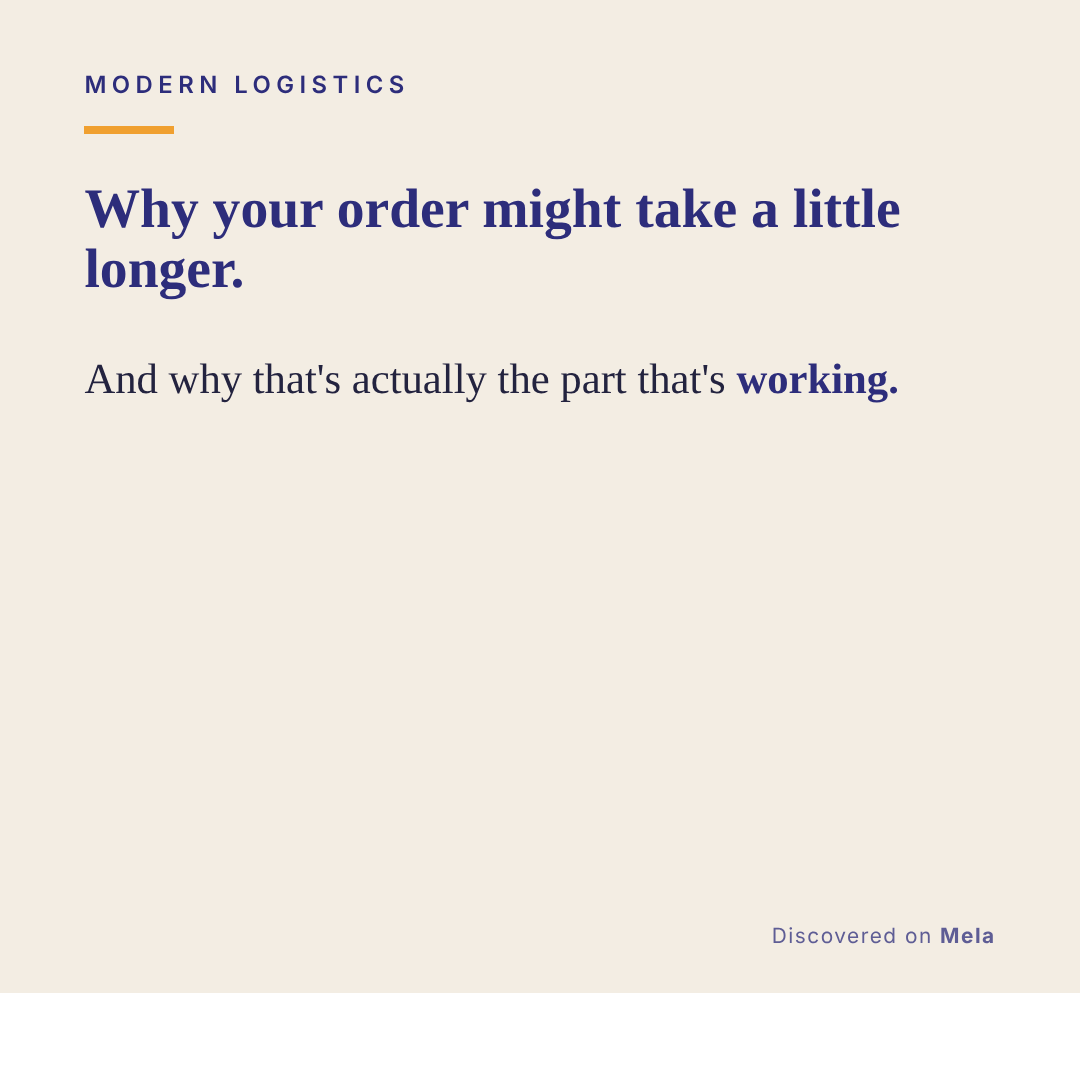
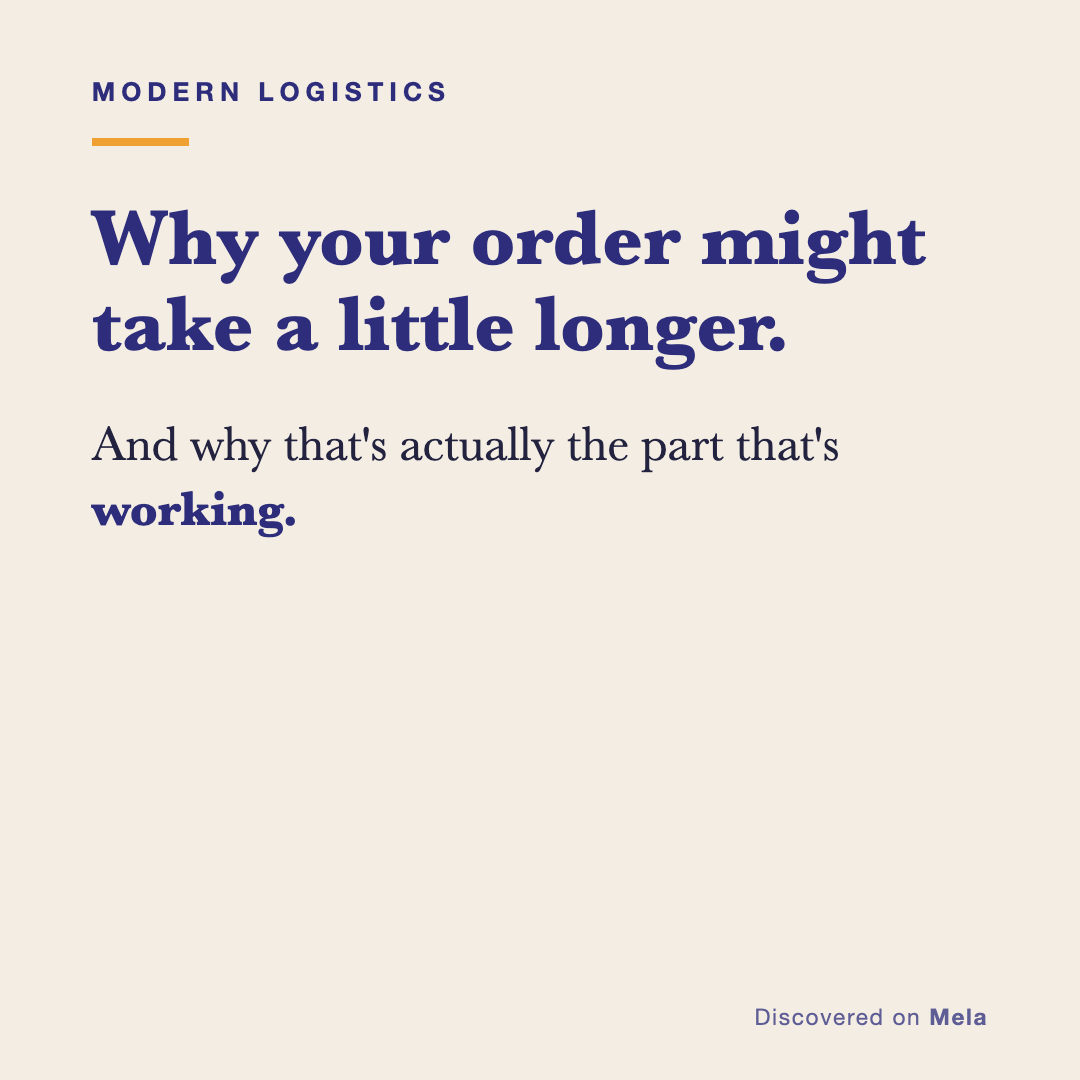
docs(social): watermark and QC week-3 renders, upload education slides
Downloads and diffs the 6 Kaunteya/Vilvah renders against source, composites
the "Discovered on Mela" watermark, and re-hosts them via Blotato; swaps the
image_url values in both campaign YAMLs. The Anti-Frizz Hair Serum render
invented a pump nozzle and was re-rendered; fine-print garble on the Vilvah
shampoo and serum labels is flagged for founder decision.

Re-renders the three education slides locally (the cloud PNGs had an ~87px
transparent strip at the bottom), commits their HTML sources, and fills the
three image_url fields.

diff --git a/social/log/_education/trust-small-batch-01/renders/slide2-teaching.html b/social/log/_education/trust-small-batch-01/renders/slide2-teaching.html
@@ -1,0 +1,50 @@
+<!doctype html>
+<html lang="en">
+<head>
+<meta charset="utf-8">
+<title>Mela — Teaching Card</title>
+<link rel="stylesheet" href="mela-kit.css">
+<style>
+  /* Teaching card: a middle slide for a cultural_education post. Explains
+     "how it's made" as a short numbered sequence. Never slide 1 (that's a
+     hook) and never a product. See visual-style-guide.md -> Education
+     Visual System -> Middle slides. */
+  .card { justify-content: flex-start; }
+  .headline {
+    font-size: 6.4vmin; line-height: 1.08; color: var(--ink);
+    margin: 0 0 5vmin; max-width: 92%;
+  }
+  .headline .accent { color: var(--navy); font-style: italic; }
+  .steps { display: flex; flex-direction: column; gap: 3.4vmin; margin-top: 0.5vmin; }
+  .step { display: flex; align-items: flex-start; gap: 3vmin; }
+  .num {
+    font-family: var(--sans); font-weight: 700; font-size: 2.9vmin;
+    color: var(--navy); background: var(--marigold);
+    width: 6.4vmin; height: 6.4vmin; min-width: 6.4vmin; border-radius: 50%;
+    display: flex; align-items: center; justify-content: center;
+    margin-top: 0.4vmin;
+  }
+  .step p { font-size: 4vmin; line-height: 1.32; color: var(--ink); margin: 0; }
+  .step p b { color: var(--navy); font-weight: 600; }
+  /* tighter sizing so 4 steps + watermark fit with the kit's real serif fonts */
+  .headline { font-size: 5.2vmin; margin-bottom: 3.4vmin; }
+  .steps { gap: 2.4vmin; }
+  .step p { font-size: 3.3vmin; line-height: 1.28; }
+  .num { width: 5.6vmin; height: 5.6vmin; min-width: 5.6vmin; font-size: 2.6vmin; }
+</style>
+</head>
+<body>
+  <div class="card">
+    <div class="kicker">Small batch, not mass produced</div>
+    <div class="rule"></div>
+    <h1 class="headline">What's actually happening <span class="accent">while you wait</span></h1>
+    <div class="steps">
+      <div class="step"><div class="num">1</div><p>Many pieces are <b>finished only after your order</b> comes in, not pulled off a warehouse shelf.</p></div>
+      <div class="step"><div class="num">2</div><p>Small production runs mean <b>a person checks each piece</b>, not a machine sampling every tenth one.</p></div>
+      <div class="step"><div class="num">3</div><p>That's also why <b>two pieces from the same run are never perfectly identical</b>.</p></div>
+      <div class="step"><div class="num">4</div><p>The wait buys you something mass production can't: <b>someone who actually finished it by hand</b>.</p></div>
+    </div>
+    <div class="watermark">Discovered on <b>Mela</b></div>
+  </div>
+</body>
+</html>

diff --git a/social/log/_education/trust-small-batch-01/renders/slide3-mythfact.html b/social/log/_education/trust-small-batch-01/renders/slide3-mythfact.html
@@ -1,0 +1,51 @@
+<!doctype html>
+<html lang="en">
+<head>
+<meta charset="utf-8">
+<title>Mela — Myth vs Fact</title>
+<link rel="stylesheet" href="mela-kit.css">
+<style>
+  /* Trust/service. Full-bleed split: muted MYTH over affirmative FACT.
+     High save/share format — the correction is the payoff. */
+  .card { padding: 0; }
+  .panel {
+    flex: 1;
+    padding: 7.5vmin 8.5vmin;
+    display: flex; flex-direction: column; justify-content: center;
+  }
+  .panel.myth { background: var(--cream-deep); }
+  .panel.fact { background: var(--navy); }
+  .tag {
+    font-family: var(--sans); font-weight: 700; letter-spacing: 0.4vmin;
+    font-size: 2.3vmin; text-transform: uppercase;
+    padding: 1vmin 2.6vmin; border-radius: 0.9vmin;
+    width: max-content; margin-bottom: 3.5vmin;
+  }
+  .myth .tag { background: #D9CDB8; color: var(--muted); }
+  .fact .tag { background: var(--marigold); color: var(--navy-deep); }
+  .statement { font-size: 5vmin; line-height: 1.2; margin: 0; }
+  .myth .statement { color: var(--muted); }
+  .fact .statement { color: var(--cream); }
+  .fact .statement .accent { color: var(--marigold); font-style: italic; }
+</style>
+</head>
+<body>
+  <div class="card">
+    <!-- DO NOT use "duties handled up front" as a blanket fact. Duties/customs vary
+         by brand and order value: SOME brands prepay (DDP), MANY do not. A customs
+         myth/fact must be brand-specific and verified, never a universal Mela promise.
+         Default below avoids the duties claim entirely. -->
+    <div class="panel myth">
+      <span class="tag">Myth</span>
+      <!-- EDIT: the misconception -->
+      <p class="statement">A slower ship date means something went wrong with your order.</p>
+    </div>
+    <div class="panel fact">
+      <span class="tag">Fact</span>
+      <!-- EDIT: the correction. Wrap a phrase in <span class="accent"> for the marigold pop. -->
+      <p class="statement">It usually means it's being <span class="accent">made in small batches</span>, not pulled off a shelf. Worth the wait. Discover independent Indian brands on Mela.</p>
+      <div class="watermark watermark--light">Discovered on <b>Mela</b></div>
+    </div>
+  </div>
+</body>
+</html>

diff --git a/social/log/_education/trust-small-batch-01/renders/mela-kit.css b/social/log/_education/trust-small-batch-01/renders/mela-kit.css
@@ -1,0 +1,72 @@
+/* ============================================================
+   Mela Social — shared brand kit for HTML card templates.
+   Edit brand tokens HERE ONCE; every card inherits them.
+   Cards are sized to the render viewport (100vw x 100vh), so the
+   SAME file renders at any ratio just by changing --window-size:
+     square 1080x1080  |  story 1080x1920  |  pin 1000x1500
+   Type/spacing use vmin (ties to the narrower side = width in all
+   our ratios), so text scales consistently across ratios.
+   ============================================================ */
+
+:root {
+  /* palette */
+  --navy:       #2D2D7B;   /* Mela navy   */
+  --navy-deep:  #20204f;
+  --marigold:   #F0A030;   /* Mela marigold accent */
+  --cream:      #F3EDE3;   /* warm earthy baseline */
+  --cream-deep: #EAE0CF;
+  --ink:        #23233f;
+  --muted:      #6b6450;
+
+  /* type */
+  --serif: "Baskerville", "Didot", Georgia, "Times New Roman", serif; /* display */
+  --sans:  "Helvetica Neue", Arial, sans-serif;                        /* labels  */
+}
+
+* { box-sizing: border-box; }
+html, body { margin: 0; padding: 0; }
+
+/* The card = the post. Fills the render viewport. */
+.card {
+  width: 100vw;
+  height: 100vh;
+  overflow: hidden;
+  position: relative;
+  padding: 9vmin 8.5vmin;
+  font-family: var(--serif);
+  background: var(--cream);
+  display: flex;
+  flex-direction: column;
+}
+
+/* --- shared components --- */
+.kicker {
+  font-family: var(--sans);
+  text-transform: uppercase;
+  letter-spacing: 0.55vmin;
+  font-size: 2.4vmin;
+  font-weight: 600;
+  color: var(--navy);
+}
+
+.rule {
+  width: 9vmin;
+  height: 0.75vmin;
+  background: var(--marigold);
+  margin: 3.5vmin 0 4.5vmin;
+}
+
+/* "Discovered on Mela" watermark — baked into the layer (never a
+   Blotato prompt; see visual-style-guide.md guardrails). */
+.watermark {
+  position: absolute;
+  bottom: 5.5vmin;
+  right: 8.5vmin;
+  font-family: var(--sans);
+  font-size: 2.1vmin;
+  letter-spacing: 0.15vmin;
+  color: var(--navy);
+  opacity: 0.75;
+}
+.watermark b { font-weight: 700; }
+.watermark--light { color: var(--cream); opacity: 0.8; }

diff --git a/social/log/_education/trust-small-batch-01/renders/slide1-hook.html b/social/log/_education/trust-small-batch-01/renders/slide1-hook.html
@@ -1,0 +1,26 @@
+<!doctype html>
+<html lang="en">
+<head>
+<meta charset="utf-8">
+<title>Mela — Small batch, slide 1 (hook)</title>
+<link rel="stylesheet" href="mela-kit.css">
+<style>
+  /* Header-only copy of shipping-timeline.html: trust/service utility hook. */
+  .card { justify-content: flex-start; padding: 7vmin 8.5vmin; }
+  .rule { margin: 2.8vmin 0 3vmin; }
+  .title { font-size: 7.4vmin; line-height: 1.08; color: var(--navy); margin: 1.5vmin 0 4.2vmin; }
+  .sub { font-size: 4.6vmin; line-height: 1.3; color: var(--ink); margin: 0; }
+  .sub b { color: var(--navy); font-weight: 700; }
+  .watermark { bottom: 4.5vmin; }
+</style>
+</head>
+<body>
+  <div class="card">
+    <div class="kicker">Modern logistics</div>
+    <div class="rule"></div>
+    <h1 class="title">Why your order might take a little longer.</h1>
+    <p class="sub">And why that's actually the part that's <b>working.</b></p>
+    <div class="watermark">Discovered on <b>Mela</b></div>
+  </div>
+</body>
+</html>
